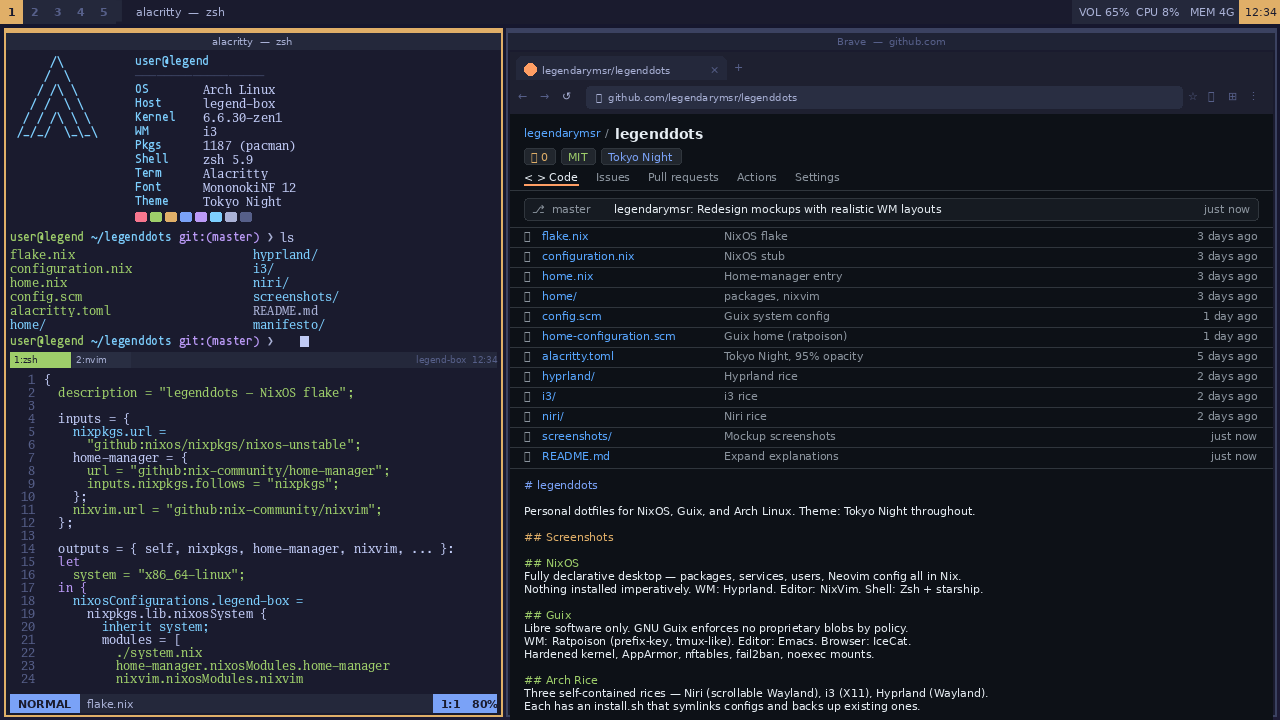
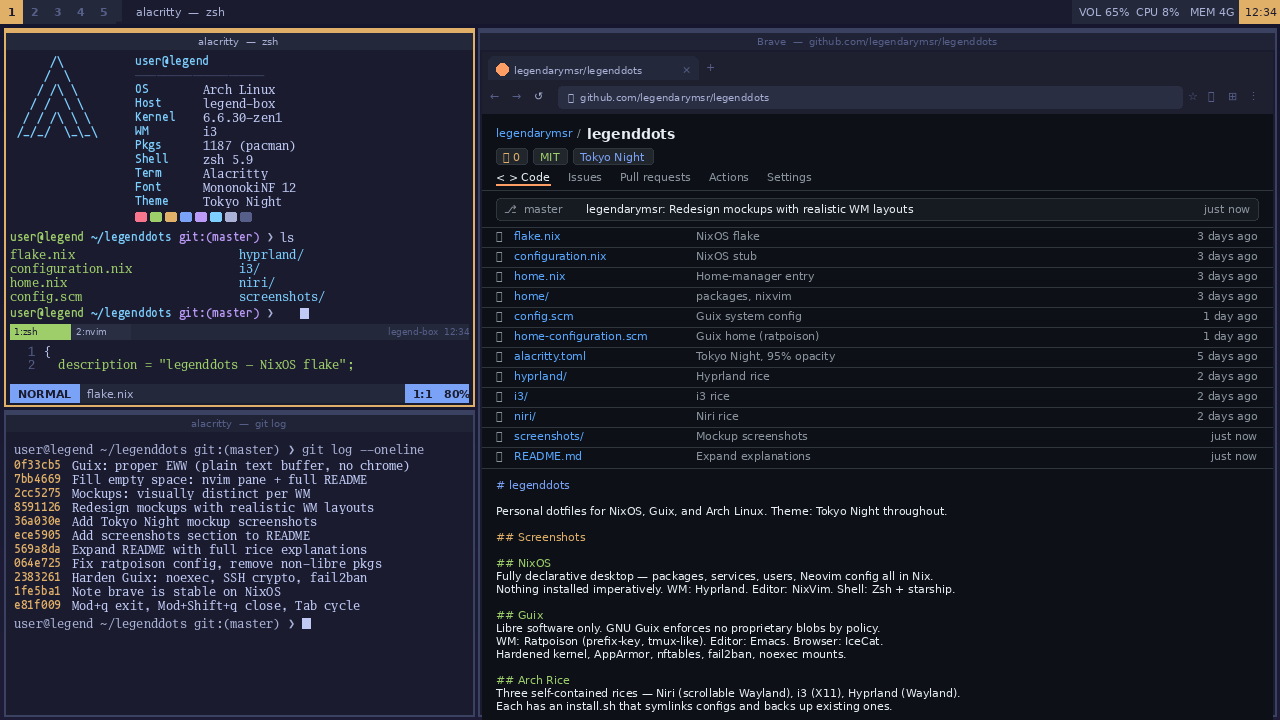
Differentiate rices: Niri 3-col scroll canvas, i3 split pane with git log

Changed region(s): [[0.0, 0.0306, 0.75, 1.0], [0.6875, 0.0306, 0.7812, 0.0611], [0.1562, 0.0306, 0.1875, 0.0611]]

diff --git a/screenshots/gen.py b/screenshots/gen.py
@@ -889,31 +889,80 @@ def gen_hyprland(outpath, os_name, accent, pkgs, browser_fn):
     print(f"  {outpath}")
 
 
+GIT_LOG = [
+    ("0f33cb5", "Guix: proper EWW (plain text buffer, no chrome)"),
+    ("7bb4669", "Fill empty space: nvim pane + full README"),
+    ("2cc5275", "Mockups: visually distinct per WM"),
+    ("8591126", "Redesign mockups with realistic WM layouts"),
+    ("36a030e", "Add Tokyo Night mockup screenshots"),
+    ("ece5905", "Add screenshots section to README"),
+    ("569a8da", "Expand README with full rice explanations"),
+    ("064e725", "Fix ratpoison config, remove non-libre pkgs"),
+    ("2383261", "Harden Guix: noexec, SSH crypto, fail2ban"),
+    ("1fe5ba1", "Note brave is stable on NixOS"),
+    ("e81f009", "Mod+q exit, Mod+Shift+q close, Tab cycle"),
+]
+
+def draw_gitlog(d, fn, x, y, w, h):
+    """Simple git log --oneline output filling a terminal pane."""
+    d.rectangle([x, y, x+w, y+h], fill=rgb(BG))
+    px, py = x+6, y+6
+    lh = 14
+
+    d.text((px, py), "user@legend ~/legenddots git:(master) ❯ git log --oneline",
+           font=fn["mono_r"], fill=rgb(FG2))
+    py += lh + 2
+
+    for sha, msg in GIT_LOG:
+        if py + lh > y + h - 4:
+            break
+        d.text((px,      py), sha, font=fn["mono_b"], fill=rgb(YELLOW))
+        d.text((px + 58, py), msg, font=fn["mono_r"], fill=rgb(FG))
+        py += lh
+
+    py += 4
+    if py + lh <= y + h:
+        d.text((px, py), "user@legend ~/legenddots git:(master) ❯ ",
+               font=fn["mono_r"], fill=rgb(FG2))
+        cursor_x = px + tw(d, "user@legend ~/legenddots git:(master) ❯ ", fn["mono_r"])
+        d.rectangle([cursor_x, py+2, cursor_x+8, py+lh-2], fill=rgb(FG))
+
+
 def gen_i3(outpath, os_name, accent, pkgs):
+    """i3: polybar + LEFT SIDE SPLIT (terminal top / git log bottom) + browser right."""
     img = Image.new("RGB", (W, H), rgb(BG))
     d   = ImageDraw.Draw(img)
     fn  = make_fonts()
 
-    # polybar
     bar_h = polybar(d, fn, accent=accent)
     wallpaper(img, 0, bar_h, W, H-bar_h)
 
-    SMALL_GAP = 4
-    tx, ty = SMALL_GAP, bar_h+SMALL_GAP
-    tw_, th = TW+GAP, H-bar_h-SMALL_GAP*2
+    SG = 4   # i3-gaps small gap
+    LEFT_W = 470
+    RIGHT_X = SG*2 + LEFT_W
+    RIGHT_W = W - RIGHT_X - SG
+    FULL_H  = H - bar_h - SG*2
 
-    # terminal window — sharp
-    cx, cy, cw, ch = i3_window(d, fn, tx, ty, tw_, th,
+    # Left side: two stacked windows (i3 horizontal split)
+    TOP_H = int(FULL_H * 0.55)
+    BOT_H = FULL_H - TOP_H - SG
+
+    # Top-left: terminal with fastfetch
+    cx, cy, cw, ch = i3_window(d, fn, SG, bar_h+SG, LEFT_W, TOP_H,
                                 "alacritty  —  zsh", accent, active=True)
     draw_terminal(d, fn, cx+2, cy+2, cw-4, ch-4, os_name, "i3", pkgs)
 
-    # browser window — sharp
-    bx = SMALL_GAP*2+TW+GAP
-    bw = W-bx-SMALL_GAP
-    bh = th
-    cx2, cy2, cw2, ch2 = i3_window(d, fn, bx, ty, bw, bh,
-                                    "Brave  —  github.com", accent, active=False)
-    pcx, pcy, pcw, pch = draw_brave(d, fn, cx2, cy2, cw2, ch2)
+    # Bottom-left: git log
+    bly = bar_h + SG + TOP_H + SG
+    cx2, cy2, cw2, ch2 = i3_window(d, fn, SG, bly, LEFT_W, BOT_H,
+                                    "alacritty  —  git log", accent, active=False)
+    draw_gitlog(d, fn, cx2, cy2+2, cw2, ch2-2)
+
+    # Right: browser (full height)
+    cx3, cy3, cw3, ch3 = i3_window(d, fn, RIGHT_X, bar_h+SG, RIGHT_W, FULL_H,
+                                    "Brave  —  github.com/legendarymsr/legenddots",
+                                    accent, active=False)
+    pcx, pcy, pcw, pch = draw_brave(d, fn, cx3, cy3, cw3, ch3)
     draw_github(d, fn, pcx, pcy, pcw, pch)
 
     img.save(outpath)
@@ -921,6 +970,7 @@ def gen_i3(outpath, os_name, accent, pkgs):
 
 
 def gen_niri(outpath, os_name, accent, pkgs):
+    """Niri: THREE scrollable columns — terminal | browser | partial nvim clipped at edge."""
     img = Image.new("RGB", (W, H), rgb(BG))
     d   = ImageDraw.Draw(img)
     fn  = make_fonts()
@@ -929,20 +979,49 @@ def gen_niri(outpath, os_name, accent, pkgs):
                    right_txt="  Niri   CPU 4%   RAM 2.9G   12:34 ")
     wallpaper(img, 0, bar_h, W, H-bar_h)
 
-    # Niri: column layout hint — show arrow on right edge
-    tx, ty = GAP, bar_h+GAP
-    tw_, th = TW, H-bar_h-GAP*2
-    cx, cy, cw, ch = hyprland_window(d, fn, tx, ty, tw_, th,
+    ty = bar_h + GAP
+    th = H - bar_h - GAP*2
+
+    COL1 = 310   # terminal
+    COL2 = 530   # browser
+    # COL3 starts at GAP+COL1+GAP+COL2+GAP = 8+310+8+530+8 = 864
+    # visible width = W-8-864 = 408 of a 420-wide window (clipped naturally)
+    COL3_START = GAP + COL1 + GAP + COL2 + GAP
+    COL3_FULL  = 420
+    COL3_VIS   = W - COL3_START   # no right gap — clips at screen edge
+
+    # column 1 — terminal
+    cx, cy, cw, ch = hyprland_window(d, fn, GAP, ty, COL1, th,
                                       "alacritty  —  zsh", accent)
     draw_terminal(d, fn, cx+2, cy+2, cw-4, ch-4, os_name, "Niri", pkgs)
 
-    bx = GAP*2+TW
-    bw = W-bx-GAP
-    # scroll indicator — subtle arrow hinting at more columns →
-    d.text((W-20, H//2-10), "›", font=fnt(SANS_B, 28), fill=rgb(DIM))
-    hyprland_window(d, fn, bx, ty, bw-24, th, "Brave", accent)
-    pcx, pcy, pcw, pch = draw_brave(d, fn, bx+2, ty+2, bw-28, th-4)
+    # column 2 — browser
+    bx = GAP + COL1 + GAP
+    hyprland_window(d, fn, bx, ty, COL2, th, "Brave", accent)
+    pcx, pcy, pcw, pch = draw_brave(d, fn, bx+2, ty+2, COL2-4, th-4)
     draw_github(d, fn, pcx, pcy, pcw, pch)
+
+    # column 3 — neovim, partially clipped (shows scroll nature)
+    # draw a full window but clip it at the right edge by only drawing within [COL3_START, W]
+    nx3 = COL3_START
+    # window border + bg
+    d.rounded_rectangle([nx3, ty, nx3+COL3_FULL, ty+th],
+                         radius=10, outline=rgb(DIM), width=2, fill=rgb(BG2))
+    # title bar
+    d.rounded_rectangle([nx3+2, ty+2, nx3+COL3_FULL-2, ty+26],
+                         radius=9, fill=rgb(BG3))
+    d.rectangle([nx3+2, ty+15, nx3+COL3_FULL-2, ty+26], fill=rgb(BG3))
+    d.text((nx3+10, ty+7), "nvim  —  flake.nix", font=fn["title"], fill=rgb(DIM))
+    # content area
+    d.rectangle([nx3+2, ty+27, nx3+COL3_FULL-2, ty+th-2], fill=rgb(BG))
+    draw_nvim_pane(d, fn, nx3+4, ty+28, COL3_FULL-8, th-32,
+                   filename="flake.nix", accent=DIM)
+
+    # "more to the right" scroll shadow at right edge
+    for i in range(20):
+        alpha = int(200 * i / 20)
+        shade = tuple(max(0, c - alpha//6) for c in rgb(BG))
+        d.line([W-20+i, bar_h, W-20+i, H], fill=shade)
 
     img.save(outpath)
     print(f"  {outpath}")